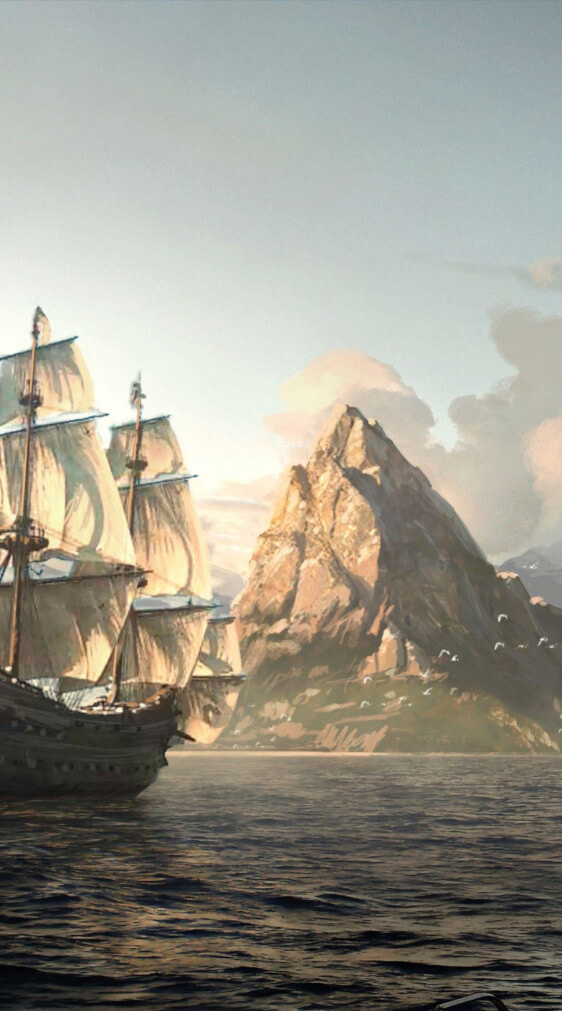
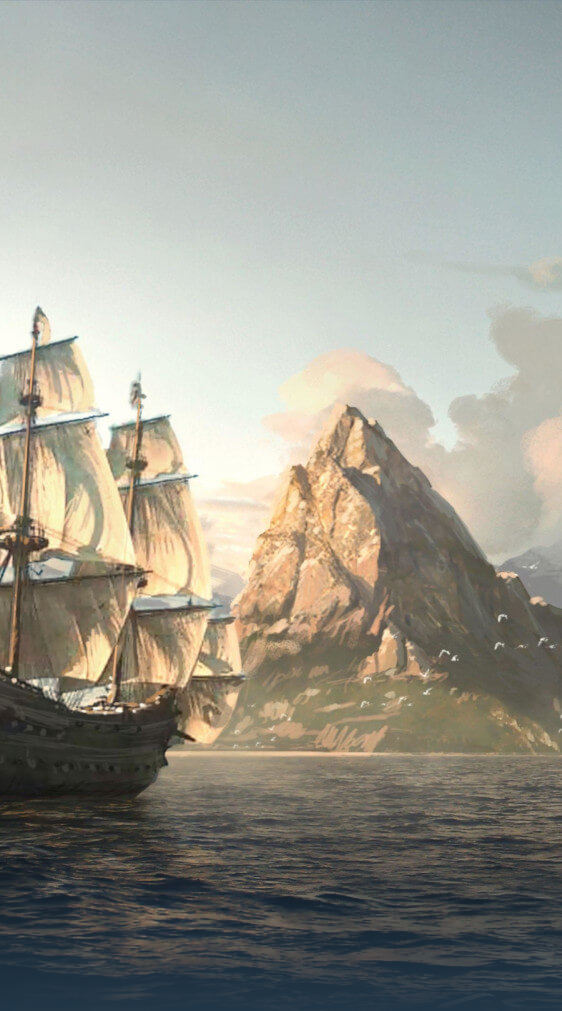
Better background for game and notification design

Changed region(s): [[0.0, 0.8586, 1.0, 1.0]]

diff --git a/public/global.css b/public/global.css
@@ -10,8 +10,10 @@ body {
 body {
     font-family: -apple-system, BlinkMacSystemFont, 'Segoe UI', Roboto, Oxygen-Sans, Ubuntu, Cantarell, 'Helvetica Neue',
         sans-serif;
+    background-color: #213748;
     background-image: url('./img/background.jpg');
     background-size: cover;
+    background-repeat: no-repeat;
 }
 
 @media (min-width: 1000px) {

diff --git a/src/components/Notifications.svelte b/src/components/Notifications.svelte
@@ -16,11 +16,16 @@
         left: 0;
         width: 100%;
         background-color: rgb(207, 255, 163);
-        padding: 1em;
+        padding: 0.75em;
         text-align: center;
+    }
+    p {
+        font-size: 140%;
     }
     .icon {
         color: green;
+        font-size: 140%;
+        vertical-align: middle;
     }
 </style>
 

diff --git a/src/App.svelte b/src/App.svelte
@@ -38,7 +38,8 @@
         cursor: pointer;
     }
     .footer {
-        text-shadow: 0 0 10px #fff;
+        color: #fff;
+        text-shadow: 0 0 10px #000;
     }
 </style>
 
